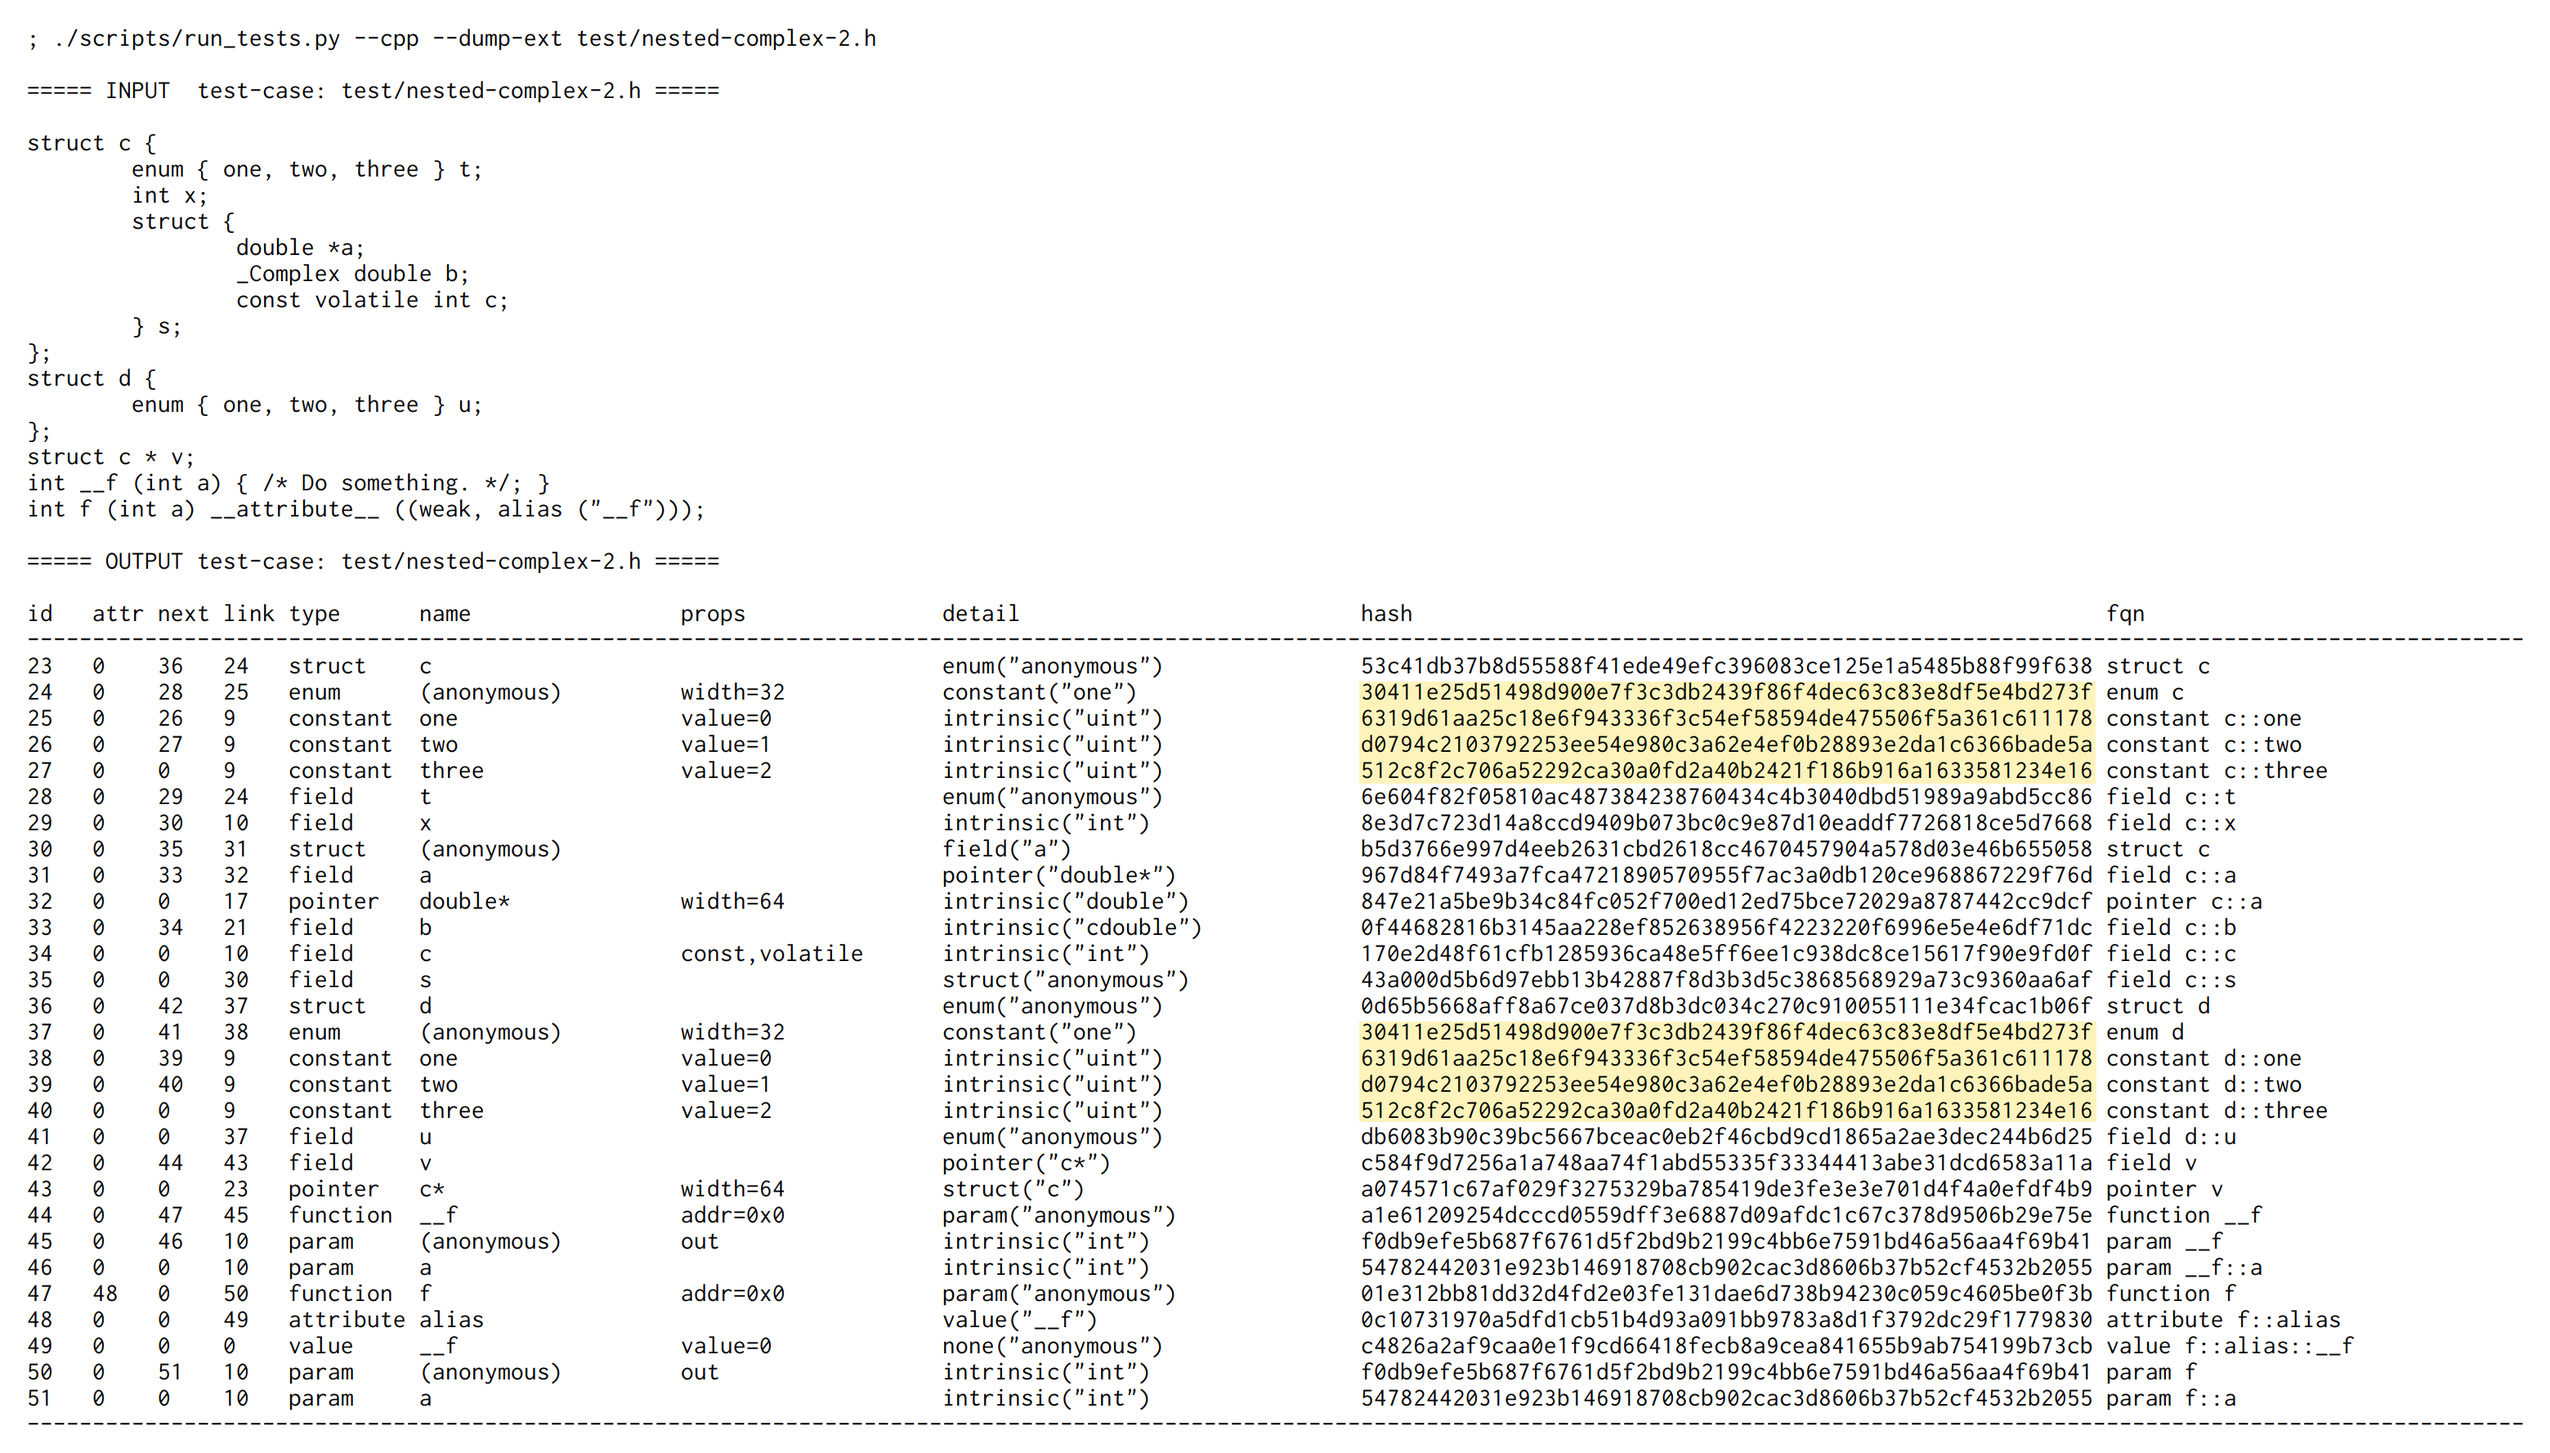
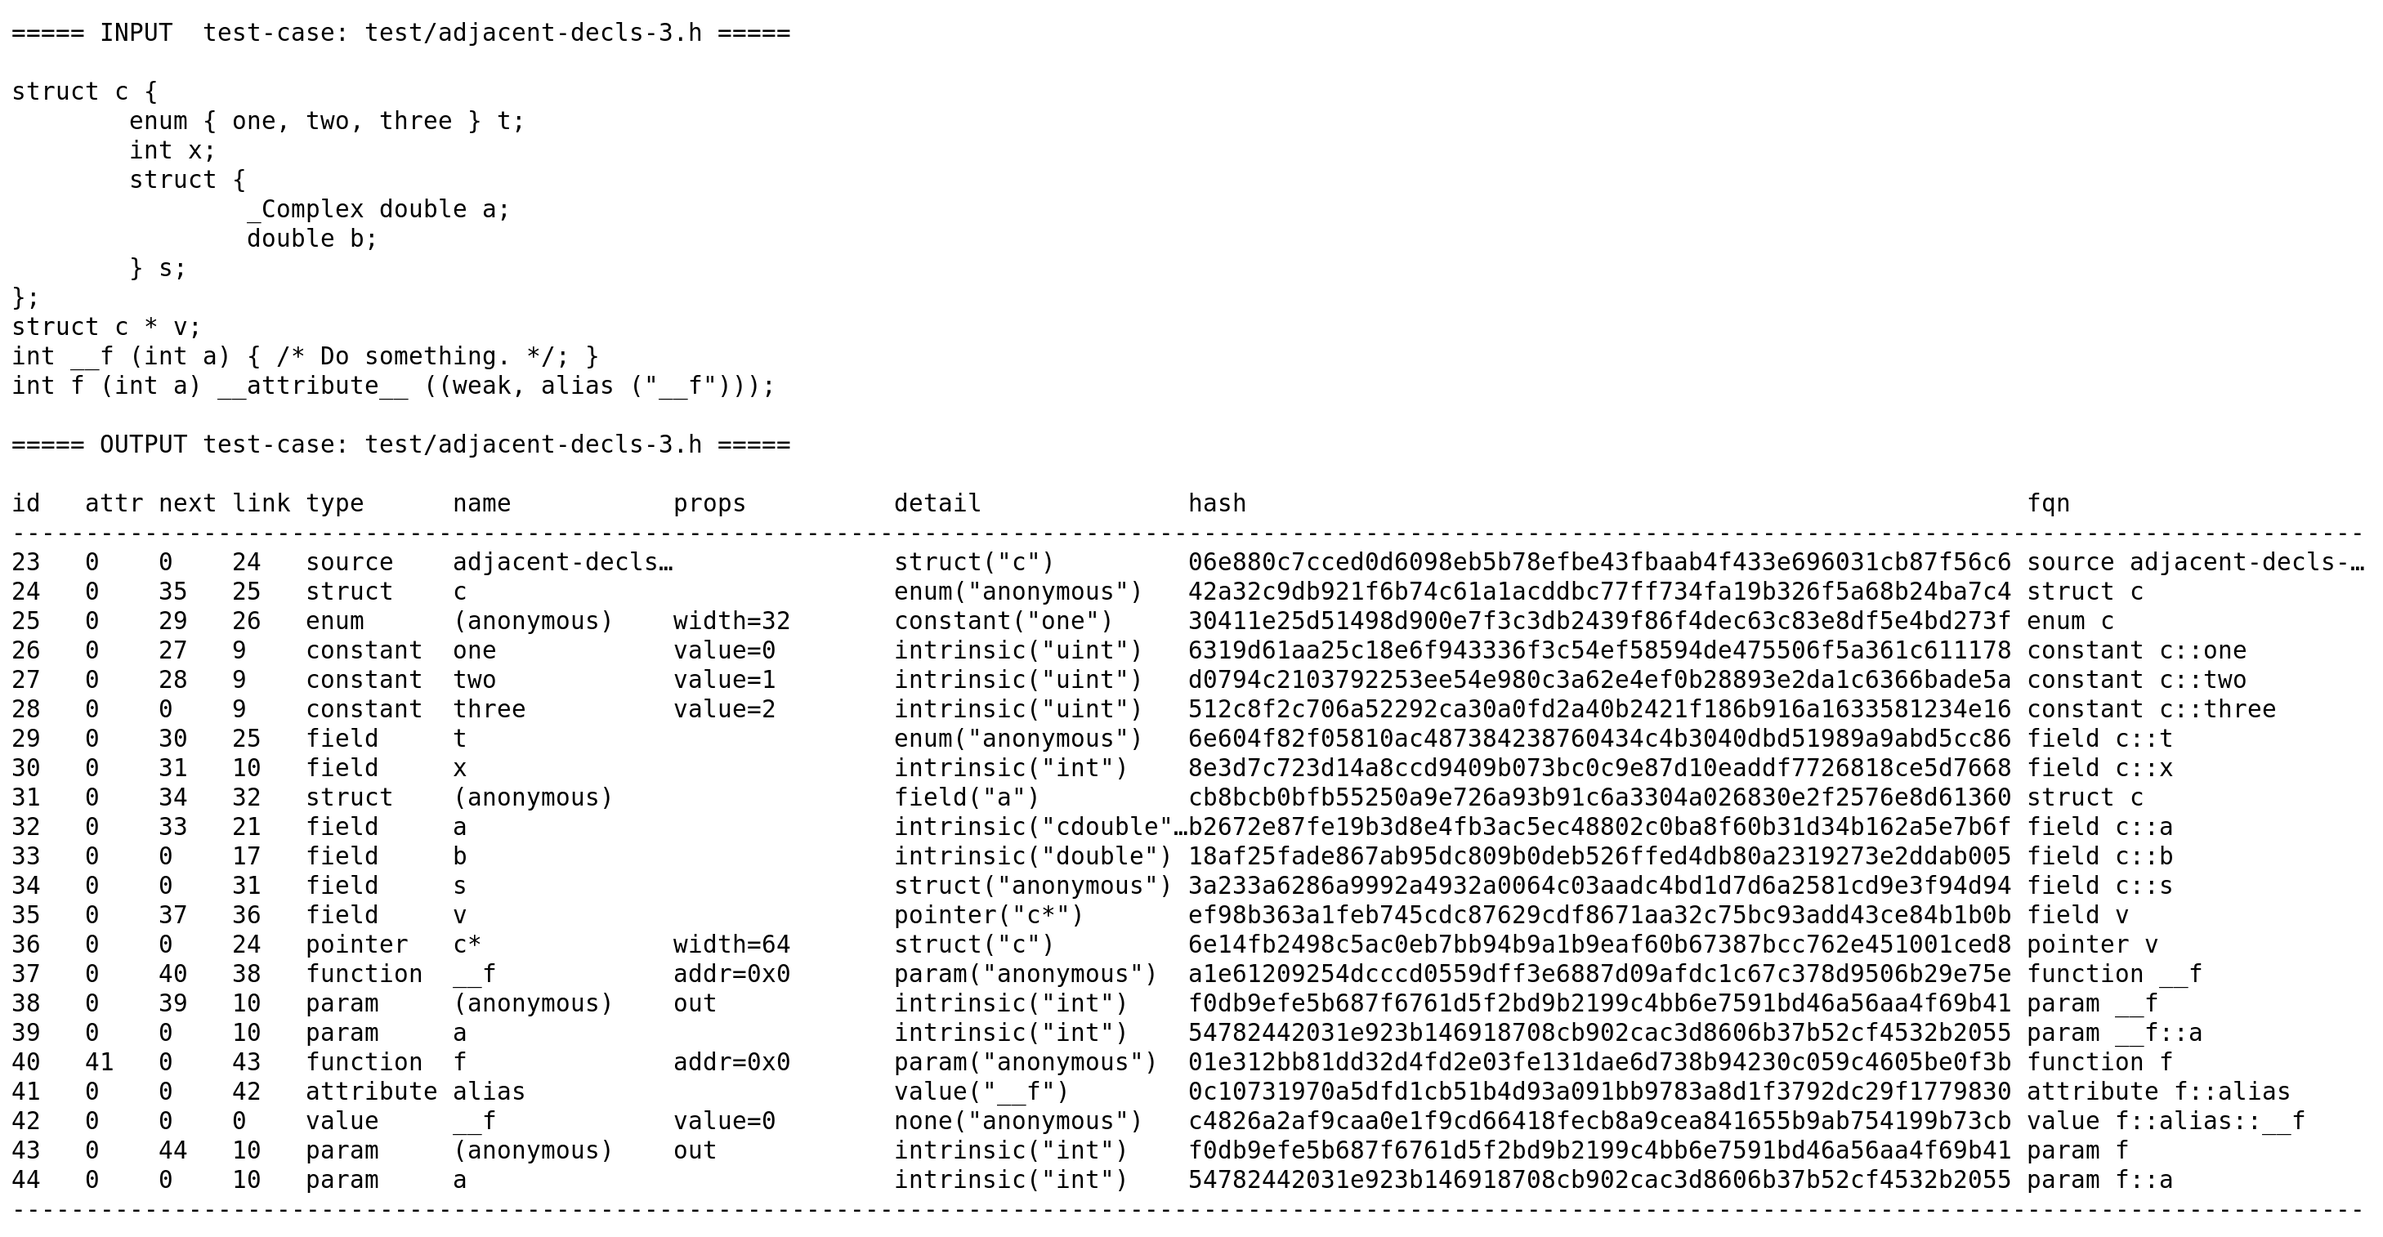
README: update crefltool example output to show command

diff --git a/README.md b/README.md
@@ -178,9 +178,8 @@ hashes with the following constraints and properties:
 
 ### crefltool output
 
-This example invocation of `crefltool` shows the extended reflection
-meta-data with matching hash sums in yellow. Linking, merging
-and deduplication of reflection meta-data is a work-in-progress.
+This example invocation of `crefltool` shows the extended reflection meta-data
+generated with `./scripts/run_tests.py --dump-all test/adjacent-decls-3.h`:
 
 ![crefltool](/images/crefltool.png)
 
